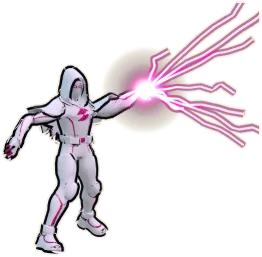
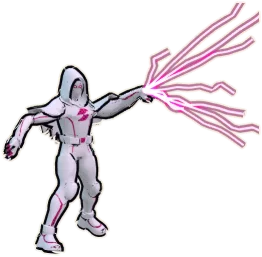
First screen: no soft orb behind Ghost's Shock (Shifat Nov 2 4:38 PM: "No need glow in shock. Comic look is enough. Soft orb looks bad in this illustration.")
Removed the screen-blended pink radial glow at her palm and the white disc sprite in the bake. The inked comic lightning bolts stay as they were. Re-baked the heroes.

Changed region(s): [[0.3969, 0.1868, 0.7023, 0.5292]]

diff --git a/tools/title/heroBake.ts b/tools/title/heroBake.ts
@@ -111,10 +111,6 @@ function applyPose(by: Record<string, THREE.Bone>, pose: Pose) {
     for (const k in pose) { const b = by[k]; if (!b) continue; const [x, y, z] = pose[k]; e.set(x * D2R, y * D2R, z * D2R, 'XYZ'); b.quaternion.setFromEuler(e); }
 }
 
-const SOFT = () => { const c = document.createElement('canvas'); c.width = c.height = 64; const x = c.getContext('2d')!; const g = x.createRadialGradient(32, 32, 0, 32, 32, 32);
-    g.addColorStop(0, 'rgba(255,255,255,1)'); g.addColorStop(0.3, 'rgba(255,255,255,0.8)'); g.addColorStop(0.65, 'rgba(255,255,255,0.22)'); g.addColorStop(1, 'rgba(255,255,255,0)');
-    x.fillStyle = g; x.fillRect(0, 0, 64, 64); const t = new THREE.CanvasTexture(c); t.colorSpace = THREE.SRGBColorSpace; return t; };
-
 export interface HeroSpec {
     id: string; ghost: boolean; pose: Pose; rot: [number, number, number]; pos: [number, number, number];
     box: [number, number, number, number];          // design px (1920x1080) the render covers; the trimmed cut-out is placed inside it
@@ -143,10 +139,8 @@ export async function bakeHero(s: HeroSpec, scale: number): Promise<HTMLCanvasEl
         const mk = (r: number, color: number, over: boolean) => { const len = from.distanceTo(top); const geo = new THREE.CylinderGeometry(r, r, len, 10, 1, true); const me = new THREE.Mesh(geo, new THREE.MeshBasicMaterial({ color, depthTest: !over }));
             me.position.copy(from).lerp(top, 0.5); me.quaternion.setFromUnitVectors(new THREE.Vector3(0, 1, 0), dir); return me; };
         const ink = mk(0.04, 0x05040a, true), core = mk(0.019, 0xf4f1ff, true); ink.renderOrder = 2; core.renderOrder = 3; scene.add(ink, core);
-    } else {      // the pink Shock in her palm: soft glow, white-hot core, crackling bolts (the game's Shock colours)
-        const soft = SOFT();
-        const add = (size: number, color: number, op: number) => { const sp = new THREE.Sprite(new THREE.SpriteMaterial({ map: soft, color, transparent: true, opacity: op, blending: THREE.AdditiveBlending, depthWrite: false, depthTest: false })); sp.scale.setScalar(size); sp.position.copy(hand); sp.renderOrder = 3; scene.add(sp); };
-        add(0.9, 0xff5cc0, 0.85); add(0.42, 0xffffff, 1);   // the wide soft glow is a screen-blended DOM layer on the title (it lights the panel)
+    } else {      // the pink Shock in her palm: crackling inked bolts (the game's Shock colours), comic style
+        // no soft orb or white disc at the palm (Shifat Nov 2 4:38 PM: "Soft orb looks bad in this illustration"): inked bolts only
         let seed = 7; const rnd = () => ((seed = (seed * 16807) % 2147483647) / 2147483647) - 0.5;
         const glowM = new THREE.MeshBasicMaterial({ color: 0xff1a96, transparent: true, opacity: 0.55, blending: THREE.AdditiveBlending, depthTest: false, depthWrite: false });
         const coreM = new THREE.MeshBasicMaterial({ color: 0xffd6ef, transparent: true, opacity: 1, blending: THREE.AdditiveBlending, depthTest: false, depthWrite: false });

diff --git a/src/title/title.css b/src/title/title.css
@@ -102,12 +102,6 @@
 .sv-hero-ghost{animation-direction:normal,alternate-reverse}
 @keyframes sv-hero-in{from{opacity:0;transform:translate3d(var(--px),var(--py),0) scale(.7)}40%{opacity:1}to{opacity:1;transform:none}}
 @keyframes sv-float{to{transform:translate3d(0,-6px,0) rotate(-.4deg)}}
-/* Ghost's Shock lights the panel: a soft screen-blended glow at her palm that flares on and then breathes */
-.sv-glow{position:absolute;width:520px;height:520px;margin:-260px 0 0 -260px;border-radius:50%;pointer-events:none;mix-blend-mode:screen;
-  background:radial-gradient(circle,rgba(255,120,200,.95) 0,rgba(255,26,150,.55) 18%,rgba(255,26,150,.18) 42%,rgba(255,26,150,0) 68%);
-  animation:sv-glow-in .5s ease-out both,sv-glow-breathe 1.6s ease-in-out infinite alternate}
-@keyframes sv-glow-in{from{opacity:0;transform:scale(.3)}to{opacity:1;transform:none}}
-@keyframes sv-glow-breathe{from{opacity:1;transform:scale(1)}to{opacity:.78;transform:scale(.92)}}
 .sv-sticker{transform-box:fill-box;transform-origin:50% 55%;animation:sv-stamp .42s cubic-bezier(0.2,1.5,0.4,1) both}
 @keyframes sv-stamp{from{opacity:0;transform:scale(1.9) rotate(-5deg)}35%{opacity:1}to{opacity:1;transform:none}}
 .sv-comic:not(.again) .sv-stage{animation:sv-thud .26s ease-out 1.54s both}
@@ -125,7 +119,7 @@
 .sv-sr{position:absolute;width:1px;height:1px;overflow:hidden;clip:rect(0 0 0 0);white-space:nowrap;margin:0}
 /* back from a game over: the art is already up, no second intro */
 .sv-comic.again *{animation-delay:0s!important}
-.sv-comic.again .sv-pg,.sv-comic.again .sv-hero,.sv-comic.again .sv-sticker,.sv-comic.again .sv-play,.sv-comic.again .sv-glow,.sv-comic.again .sv-hdr{animation-duration:.01s,5.5s!important}
+.sv-comic.again .sv-pg,.sv-comic.again .sv-hero,.sv-comic.again .sv-sticker,.sv-comic.again .sv-play,.sv-comic.again .sv-hdr{animation-duration:.01s,5.5s!important}
 /* the title's own HUD pieces step aside on the first screen (the new header carries the sound toggle) */
 .stage:has(.sv-comic:not(.leaving)) .hud,.stage:has(.sv-comic:not(.leaving)) .mute{visibility:hidden}
 @media (prefers-reduced-motion:reduce){.sv-comic *,.sv-comic .sv-stage{animation:none!important;transition:none!important}}

diff --git a/src/title/ComicTitle.tsx b/src/title/ComicTitle.tsx
@@ -57,7 +57,6 @@ export function ComicTitle({ muted, onMute, onStart, extra, leaving, again }: { 
     }, []);
     const half = f.k * Math.min(devicePixelRatio || 1, 2) <= 0.6;
     const [pcx, pcy, pd] = f.phone ? ART.phone.play : ART.play, playD = Math.max(pd, 52 / f.k);
-    const ghost = ART.heroes.find((h) => h.id === 'ghost')!;
     return <div ref={root} className={'sv-comic' + (leaving ? ' leaving' : '') + (again ? ' again' : '')}>
         <div className="sv-stage" style={{ width: ART.w, height: ART.h, transform: `translate3d(${f.tx}px,${f.ty}px,0) scale(${f.k})` }}>
             <div className="sv-push">
@@ -65,7 +64,6 @@ export function ComicTitle({ muted, onMute, onStart, extra, leaving, again }: { 
                     <PanelDefs />
                     {ART.panels.map((p) => <PanelArt key={p.id} p={p} />)}
                 </svg>
-                <div className="sv-glow" style={{ left: ghost.hand[0], top: ghost.hand[1], animationDelay: `${ghost.delay + 0.1}s, ${ghost.delay + 0.7}s` }} />
                 {ART.heroes.map((h) => {
                     const st = { left: h.x, top: h.y, width: h.w, height: h.h, animationDelay: `${h.delay}s`, '--px': `${h.pop[0]}px`, '--py': `${h.pop[1]}px` } as React.CSSProperties;
                     return <img key={h.id} className={'sv-hero sv-hero-' + h.id} src={url(h.id, half)} alt="" draggable={false} decoding="async" style={st} />;
